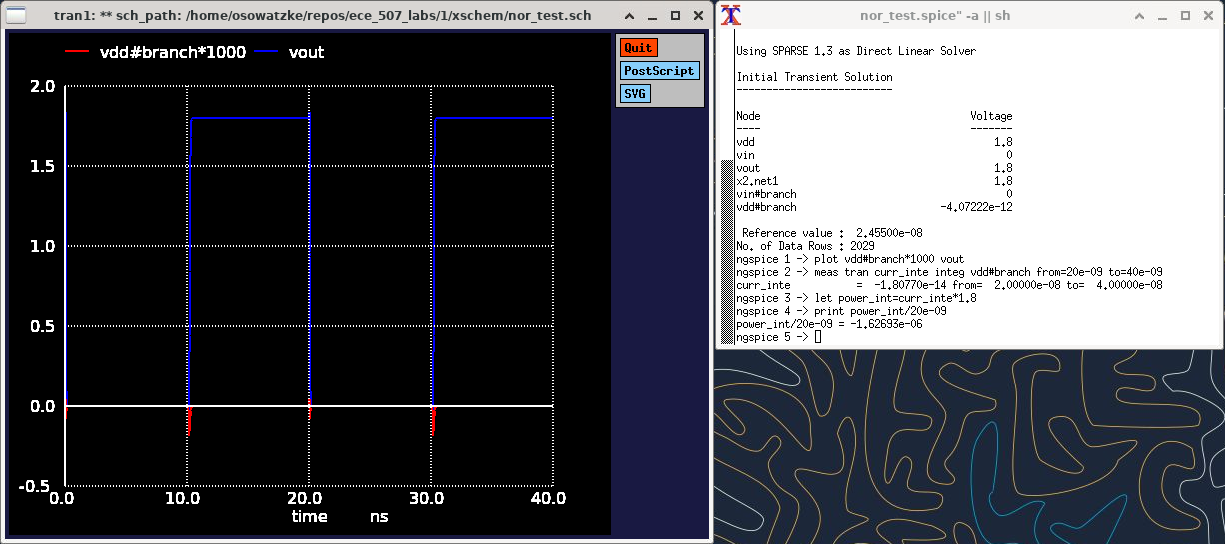
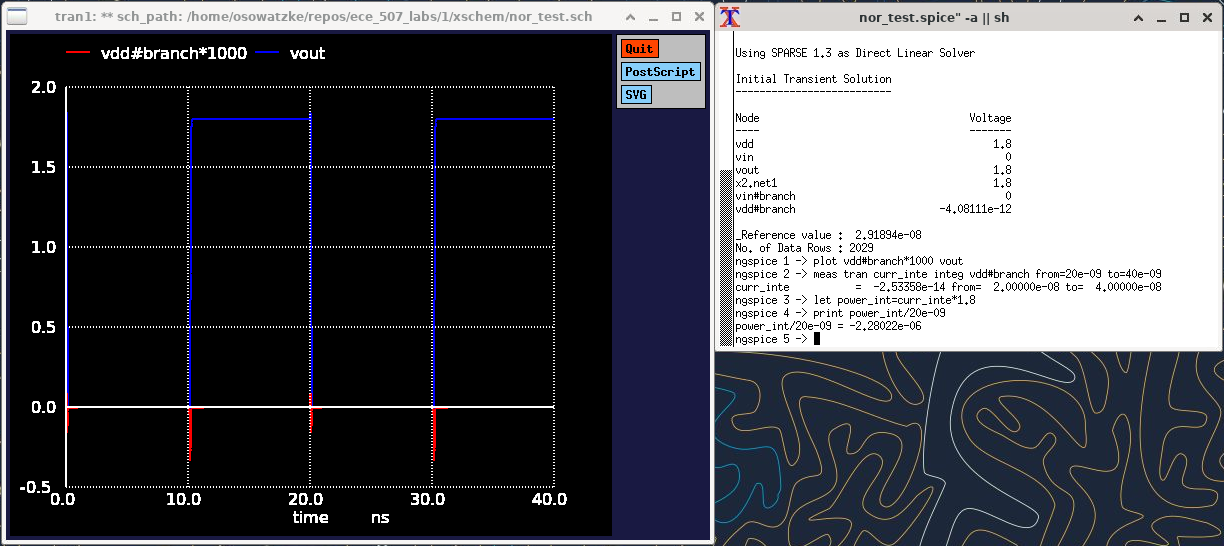
Analyzing power consumption of NOR gate

diff --git a/1/lab_report.tex b/1/lab_report.tex
@@ -564,49 +564,41 @@
 	
 	\subsubsection{Power Analysis}
 	
-	In this section, we analyze the power consumption of our NOR gate. Our test circuit for this analysis is included in Figure \ref{fig::nor_power_test_sweep_va}, and the results of our analysis are shown in Figure \ref{fig::nor_power_sweep_va}.
+	In this section, we analyze the power consumption of our NOR gate. Similar to what we did above, we analyze the power consumption for each input variation that results in an output logical level change. For our input, we used a pulsed source. This allows us to capture both rising and falling edges of the output. We use the test circuit shown in Figure \ref{fig::nor_power_test_sweep_va} to measure the power consumption for variations of \texttt{a} with \texttt{b=0}. For this analysis, we have also attached a parasitic capacitance to the gate output.
 	
 	\begin{figure}[H]
 		\centerline{\includegraphics[width=0.8\textwidth]{nor_power_test_sweep_va.png}}
-		\caption{Test Circuit to Measure the Power Consumption of the NOR Gate when \texttt{b=1} and Input \texttt{a} is Varied}
+		\caption{Test Circuit to Measure the Power Consumption of the NOR Gate when \texttt{a} is Varied and \texttt{b=0}}
 		\label{fig::nor_power_test_sweep_va}
 	\end{figure}
 	
+	\noindent Using the test circuit, we measure the power consumption as follows:
+	
 	\begin{figure}[H]
 		\centerline{\includegraphics[width=0.8\textwidth]{nor_power_sweep_va.png}}
-		\caption{Power Consumption of the NOR Gate when \texttt{b=1} and Input \texttt{a} is Varied}
+		\caption{Power Consumption of the NOR Gate when \texttt{a} is Varied and \texttt{b=0}}
 		\label{fig::nor_power_sweep_va}
 	\end{figure}
 	
-	Examining the results, we find that the power consumption is $1.62693{\mu}W$. We can also measure the power consumption when we fix \texttt{a} at 1 and vary \texttt{b}. The test circuit for this analysis is shown in Figure \ref{fig::nor_power_test_sweep_vb} and the results are shown in Figure \ref{fig::nor_power_sweep_vb}.
+	\noindent Examining the results, we find that the power consumption is $2.28022{\mu}W$. Note that this power estimate includes the effects of the rising and falling edges of \texttt{a}. We can perform similar analysis for other variations of the input. Our results for this work are summarized in Table \ref{table::nor_gate_power_analysis}.
 	
-	\begin{figure}[H]
-		\centerline{\includegraphics[width=0.8\textwidth]{nor_power_test_sweep_vb.png}}
-		\caption{Test Circuit to Measure the Power Consumption of the NOR Gate when \texttt{a=1} and Input \texttt{b} is Varied}
-		\label{fig::nor_power_test_sweep_vb}
-	\end{figure}
-	
-	\begin{figure}[H]
-		\centerline{\includegraphics[width=0.8\textwidth]{nor_power_sweep_vb.png}}
-		\caption{Power Consumption of the NOR Gate when \texttt{a=1} and Input \texttt{b} is Varied}
-		\label{fig::nor_power_sweep_vb}
-	\end{figure}
-	
-	Examining the results, we find that the power consumption is $1.17534{\mu}W$. Next, we measure the power when the inputs are varied together. For this analysis, we use the test circuit shown in Figure \ref{fig::nor_power_test_sweep_va_vb}.
-	
-	\begin{figure}[H]
-		\centerline{\includegraphics[width=0.8\textwidth]{nor_power_test_sweep_va_vb.png}}
-		\caption{Test Circuit to Measure the Power Consumption of the NOR Gate when Both Inputs are Varied Together}
-		\label{fig::nor_power_test_sweep_va_vb}
-	\end{figure}
-	
-	The results of our analysis are included in Figure \ref{fig::nor_power_sweep_va_vb} and indicate a power consumption of $1.31831{\mu}W$. 
-	
-	\begin{figure}[H]
-		\centerline{\includegraphics[width=0.8\textwidth]{nor_power_sweep_va_vb.png}}
-		\caption{Power Consumption of the NOR Gate when Both Inputs are Varied Together}
-		\label{fig::nor_power_sweep_va_vb}
-	\end{figure}	
+	\begin{table}[H]
+	\begin{center}
+	\caption{NOR Gate Power Consumption for Different Input Variations}
+	\label{table::nor_gate_power_analysis}
+	\begin{tabular}{| c | c | c |}
+		\hline
+		\texttt{a} & \texttt{b} & \texttt{Power}\\
+		\hline	
+		$0 \rightarrow 1 \rightarrow 0$ & $1$ & $2.28022{\mu}W$ \\
+		\hline	
+		$1$ & $0 \rightarrow 1 \rightarrow 0$ & $1.3767{\mu}W$ \\
+		\hline	
+		$0 \rightarrow 1 \rightarrow 0$ & $0 \rightarrow 1 \rightarrow 0$ & $1.61932{\mu}W$\\
+		\hline
+	\end{tabular}
+	\end{center}
+	\end{table}
 	
 	\subsection{NAND Gate}
 
